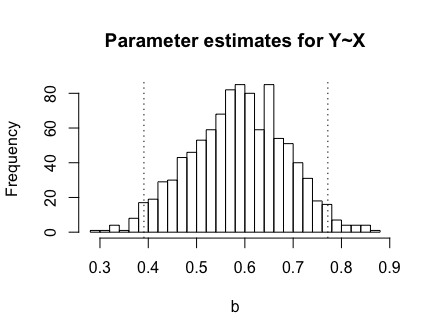
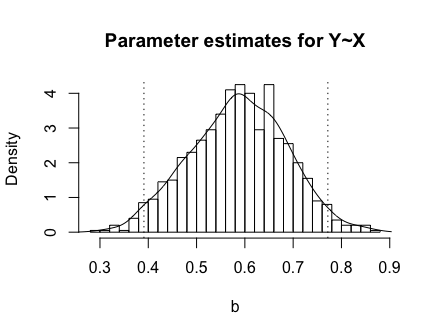
add to readme.md

diff --git a/readme.md b/readme.md
@@ -168,8 +168,12 @@ result
     ## $adjustment.sets
     ##  { A, B }
 
+Because the fitted model is misspecified, the estimated effect of *X* → *Y* is biased. `regsim()` returns the parameter estimates across all of the repetitions in a list component `$b`. Below is a histogram with a superimposed density plot of the parameter estimates. The true value of the relationship is indicated with a dashed vertical red line. The locations of the 2.5th and 97.5th percentiles (representing the empirical 95% confidence interval) are indicated with dotted vertical lines.
+
 ``` r
-hist(result$b, breaks=30, main="Parameter estimates for Y~X", xlab="b")
+hist(result$b, breaks=30, freq=FALSE,
+     main="Parameter estimates for Y~X", xlab="b")
+points(density(result$b), type='l')
 abline(v=.25, col="red", lty="dashed", lwd=1.5)
 abline(v=result$empirical.CI, lty="dotted")
 ```
